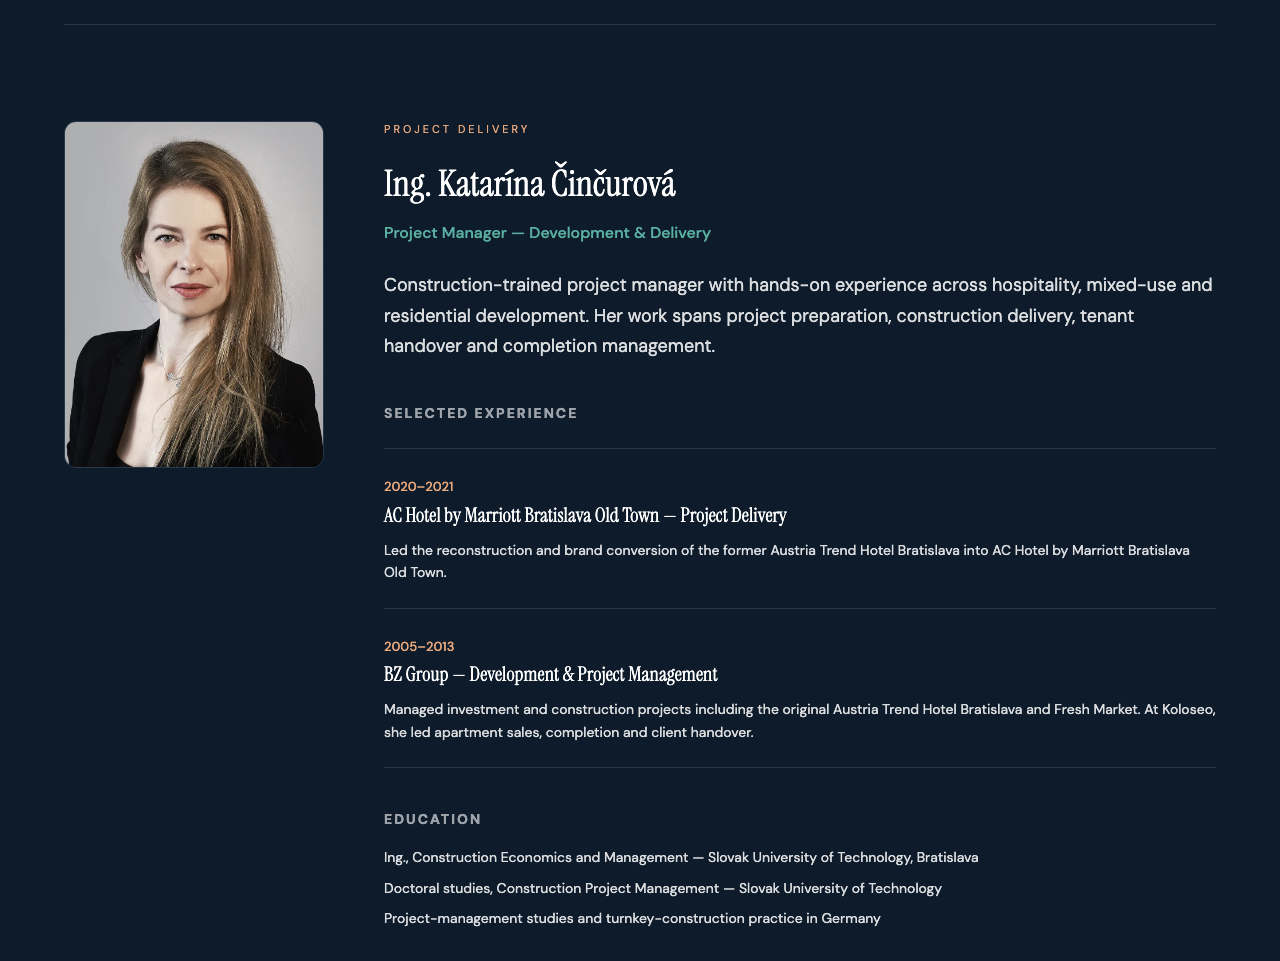
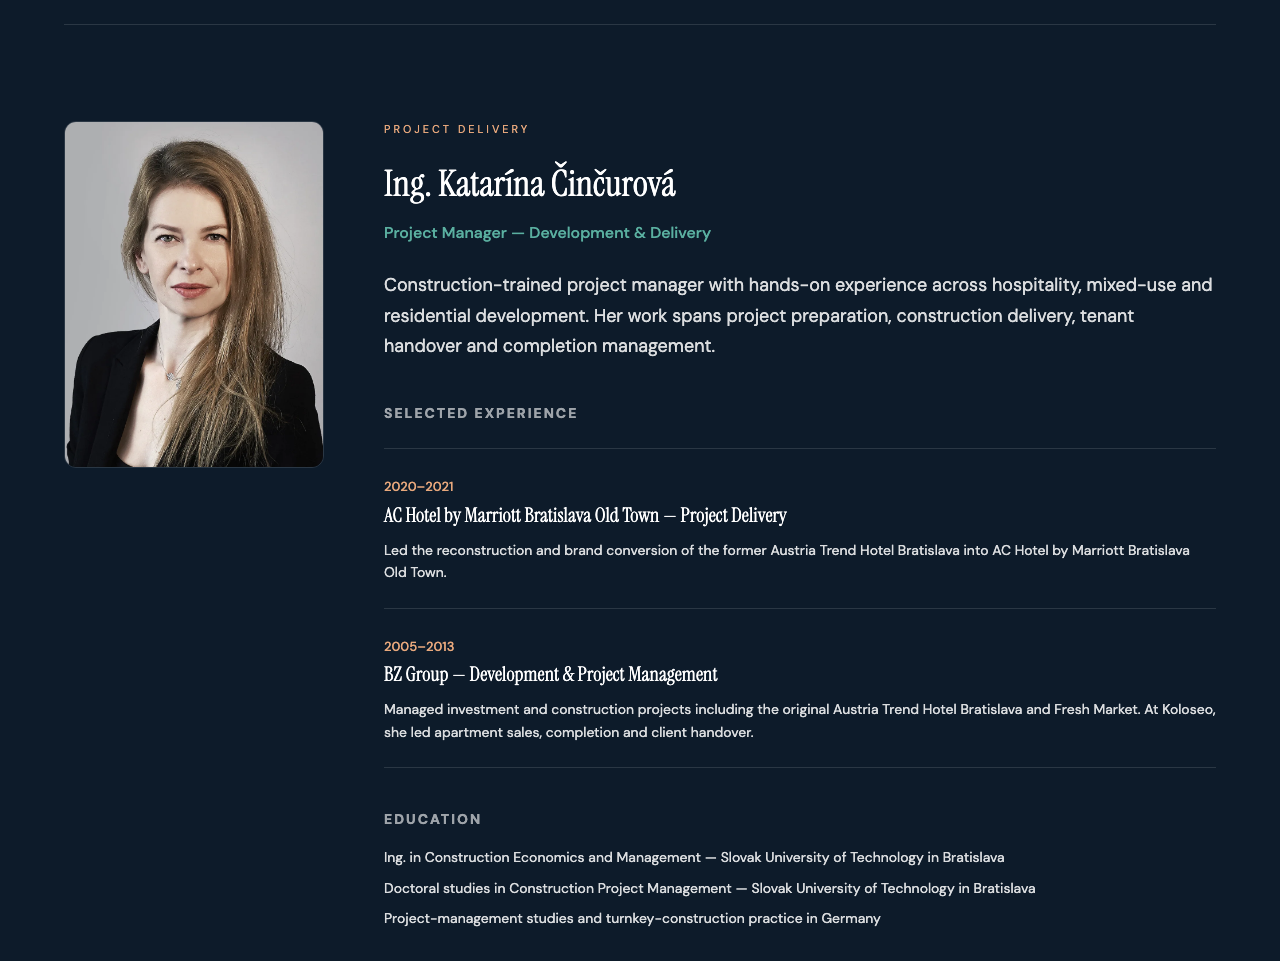
Release 1.1: final review corrections (copy, mobile spacing, image integrity)
- Copy: David team card -> "Ing. Dávid Bořuta, MSc." / "Managing Partner &
  Founder" / new bio (EUR 500M+ founder career track record). Katarina compact
  education wording tidied ("Ing. in ... in Bratislava").
- Mobile: .about-content--compact margin/padding-top 64px at <=768px.
- Sitemap: homepage-only, lastmod 2026-07-25.
- Evidence register: Ceska sporitelna internal period corrected to
  04/2002 - 10/2003; removed obsolete 21-year-overlap note (public trust bar
  still shows name only).
- Image format integrity: converted mislabeled WebP-as-PNG files to genuine
  PNG (favicon-16 16x16, favicon-32 32x32, apple-touch-icon 180x180,
  vector-logo 2000x2000). New genuine david-boruta-profile.webp (800x1200) for
  the About profile; removed the WebP-as-JPG DavidBoruta jpg. og-image.png
  stays genuine 1200x630 PNG; favicon.ico stays ICO; portraits stay WebP.

QA green: assets 200, no console errors, no overflow, team portraits 120x120
circular, compact profile shorter than David, JSON-LD parses, every image
signature matches its extension, no private CV data.

No production deployment was performed.

Changed region(s): [[0.3125, 0.8741, 0.8125, 0.9365]]

diff --git a/index.html b/index.html
@@ -732,7 +732,7 @@
             <div class="container">
                 <div class="about-content">
                     <div class="about-photo">
-                        <img src="DavidBoruta_edited_FINAL_K4A9852_copy.jpg" alt="Dávid Bořuta - Managing Partner, DBS Development & Consulting" class="about-photo-img" loading="lazy" width="400" height="500">
+                        <img src="david-boruta-profile.webp" alt="Dávid Bořuta - Managing Partner, DBS Development & Consulting" class="about-photo-img" loading="lazy" width="400" height="500">
                     </div>
 
                     <div class="about-info">
@@ -811,8 +811,8 @@
 
                         <div class="education">
                             <h3>Education</h3>
-                            <p>Ing., Construction Economics and Management — Slovak University of Technology, Bratislava</p>
-                            <p>Doctoral studies, Construction Project Management — Slovak University of Technology</p>
+                            <p>Ing. in Construction Economics and Management — Slovak University of Technology in Bratislava</p>
+                            <p>Doctoral studies in Construction Project Management — Slovak University of Technology in Bratislava</p>
                             <p>Project-management studies and turnkey-construction practice in Germany</p>
                         </div>
                     </div>
@@ -831,9 +831,9 @@
                 <div class="team-grid">
                     <div class="team-card">
                         <img src="david-boruta.webp" alt="Ing. Dávid Bořuta MSc., Managing Partner at DBS Development & Consulting" class="team-photo" loading="lazy" decoding="async" width="120" height="120">
-                        <h3>Ing. Dávid Bořuta MSc.</h3>
-                        <p class="team-role">Managing Partner</p>
-                        <p class="team-bio">20+ years in M&A, real estate, and interim leadership across CEE. Former Country CEO at HB Reavis and CEO at BZ Group. €500M+ career transaction track record.</p>
+                        <h3>Ing. Dávid Bořuta, MSc.</h3>
+                        <p class="team-role">Managing Partner & Founder</p>
+                        <p class="team-bio">20+ years in M&A, real estate and interim leadership across CEE. Former Country CEO at HB Reavis and CEO at BZ Group. €500M+ founder career track record.</p>
                         <div>
                             <a href="mailto:david@dbsdc.com" class="team-contact-link">
                                 <svg viewBox="0 0 24 24" fill="none" stroke="currentColor" stroke-width="2"><path d="M3 8l7.89 5.26a2 2 0 002.22 0L21 8M5 19h14a2 2 0 002-2V7a2 2 0 00-2-2H5a2 2 0 00-2 2v10a2 2 0 002 2z"/></svg>

diff --git a/styles.css b/styles.css
@@ -1655,6 +1655,11 @@
                 --section-spacing: 80px;
             }
 
+            .about-content--compact {
+                margin-top: 64px;
+                padding-top: 64px;
+            }
+
             header {
                 padding: 12px 0;
             }

diff --git a/docs/evidence/trust-bar-evidence-register.md b/docs/evidence/trust-bar-evidence-register.md
@@ -18,7 +18,7 @@ the approved public wording is therefore the organisation name as displayed.
 | 2 | BZ Group | *(on file — CEO)* | *(on file)* | Existing site / career record | `BZ Group` | Pre-existing (live) |
 | 3 | Government of Slovakia | *(on file)* | *(on file)* | Existing site (Ukraine Recovery Framework) | `Government of Slovakia` | Pre-existing (live) |
 | 4 | **Tatra banka** (Raiffeisen), Bratislava | Account manager — project finance & syndications | 04/2000 – 03/2002 | Employment contract, paychecks | `Tatra banka` | **CLEARED — approved by David Bořuta, 21.7.2026** |
-| 5 | **Česká spořitelna** (Erste Bank), Prague | Senior banker — real estate finance | 04/2002 – 10/2023 | Employment contract, paychecks | `Česká spořitelna` | **CLEARED — approved by David Bořuta, 21.7.2026** |
+| 5 | **Česká spořitelna** (Erste Bank), Prague | Senior banker — real estate finance | 04/2002 – 10/2003 | Employment contract, paychecks | `Česká spořitelna` | **CLEARED — approved by David Bořuta, 21.7.2026** |
 | 6 | **Procter & Gamble**, Bratislava | Systems manager — Supply chain | 01/1998 – 07/1999 | Employment contract, paychecks | `Procter & Gamble` | **CLEARED — approved by David Bořuta, 21.7.2026** |
 
 ## Group B — "Selected DBS-era mandates"
@@ -44,10 +44,5 @@ gate for these names is **lifted**.
 existing trust-bar visual language. Parent-group affiliations (Raiffeisen for
 Tatra banka; Erste Bank for Česká spořitelna) and roles/periods are recorded
 here for provenance but are intentionally NOT shown on the page.
-
-**Data-quality note (non-blocking, for Dávid):** the Česká spořitelna period
-(04/2002 – 10/2023, ~21 years) overlaps the later HB Reavis Country-CEO and
-BZ Group CEO roles and the 2015 DBS founding. Recorded exactly as supplied; not
-shown publicly. Worth a sanity check if it ever feeds a dated public claim.
 
 No other new public claims are approved in this Phase 1 work.
